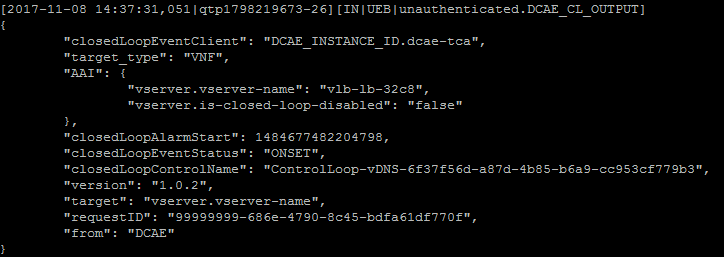
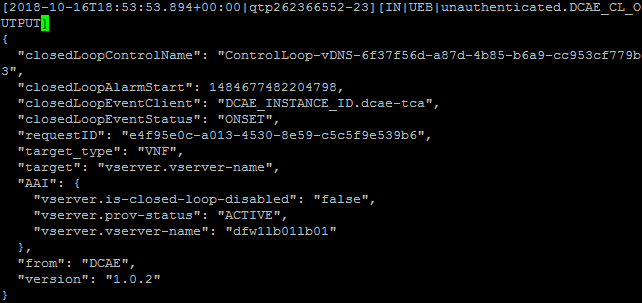
Updated vDNS documentation
Updated vDNS documentation
-------------------------------------------------------------

Issue-ID: POLICY-1169

diff --git a/docs/platform/tutorial_vDNS.rst b/docs/platform/tutorial_vDNS.rst
@@ -59,20 +59,23 @@ Here are the contents of the vDNS ONSET message. Copy/paste this into dcae.vdns.
 
     .. code-block:: json
     
-        {  "closedLoopEventClient": "DCAE_INSTANCE_ID.dcae-tca",  
-           "target_type": "VNF",  
-           "AAI": {   
-               "vserver.vserver-name": "vlb-lb-32c8",   
-               "vserver.is-closed-loop-disabled": "false"  
-           },  
-           "closedLoopAlarmStart": 1484677482204798,  
-           "closedLoopEventStatus": "ONSET",  
-           "closedLoopControlName": "ControlLoop-vDNS-6f37f56d-a87d-4b85-b6a9-cc953cf779b3",  
-           "version": "1.0.2",  
-           "target": "vserver.vserver-name",  
-           "requestID": "99999999-686e-4790-8c45-bdfa61df770f",  
-           "from": "DCAE" 
+        {
+          "closedLoopControlName": "ControlLoop-vDNS-6f37f56d-a87d-4b85-b6a9-cc953cf779b3",
+          "closedLoopAlarmStart": 1484677482204798,
+          "closedLoopEventClient": "DCAE_INSTANCE_ID.dcae-tca",
+          "closedLoopEventStatus": "ONSET",
+          "requestID": "e4f95e0c-a013-4530-8e59-c5c5f9e539b6",
+          "target_type": "VNF",
+          "target": "vserver.vserver-name",
+          "AAI": {
+            "vserver.is-closed-loop-disabled": "false",
+            "vserver.prov-status": "ACTIVE",
+            "vserver.vserver-name": "dfw1lb01lb01"
+          },
+          "from": "DCAE",
+          "version": "1.0.2"
         }
+        
 
 
 Enabling the AAI and SO Simulators
@@ -95,11 +98,11 @@ We are now ready to inject an ONSET message to trigger the vDNS flow. Simply nav
 
     .. code-block:: bash
     
-        http -a @1b3rt:31nst31n PUT :9696/policy/pdp/engine/topics/sources/ueb/unauthenticated.DCAE_CL_OUTPUT/events @dcae.vdns.onset.json Content-Type:"text/plain"
+        http --verify=no --default-scheme=https -a @1b3rt:31nst31n PUT :9696/policy/pdp/engine/topics/sources/ueb/unauthenticated.DCAE_CL_OUTPUT/events @dcae.vdns.onset.json Content-Type:"text/plain"
 
 You should see some output similar to this:
 
-.. image:: tutorial_vDNS_1.png
+    .. image:: tutorial_vDNS_1.png
 
 You can view the logs to see the network activity or find any errors that may have occurred. Logs are located in */opt/app/policy/logs*.
 
@@ -108,9 +111,9 @@ Reading the logs
 
 Once you've injected the onset message, this should appear in the network.log:
 
-.. image:: tutorial_vDNS_2.png
+    .. image:: tutorial_vDNS_2.png
 
 
 End of Document
 
-.. SSNote: Wiki page ref. https://wiki.onap.org/display/DW/Using+guard+in+the+PDP-D
+.. SSNote: Wiki page ref. https://wiki.onap.org/display/DW/Tutorial%3A+Testing+the+vDNS+Use+Case+in+a+standalone+PDP-D

diff --git a/docs/platform/clsimulation.rst b/docs/platform/clsimulation.rst
@@ -194,6 +194,7 @@ Responses
           "vserver-name2": "vjunos0",
           "vserver-selflink": "https://aai-ext1.test.att.com:8443/aai/v7/cloud-infrastructure/cloud-regions/cloud-region/att-aic/AAIAIC25/tenants/tenant/USMSO1SX7NJ0103UJZZ01%3A%3AuCPE-VMS/vservers/vserver/d0668d4f-c25e-4a1b-87c4-83845c01efd8",
           "in-maint": false,
+          "prov-status":"ACTIVE",
           "is-closed-loop-disabled": isDisabled, // True if the vserverName is "disableClosedLoop", false otherwise
           "resource-version": "1494001931513",
           "relationship-list": {
@@ -222,7 +223,7 @@ Responses
           }
          }]
         }
-
+        
 
     .. code-block:: bash
        :caption: vserver-GET-error
